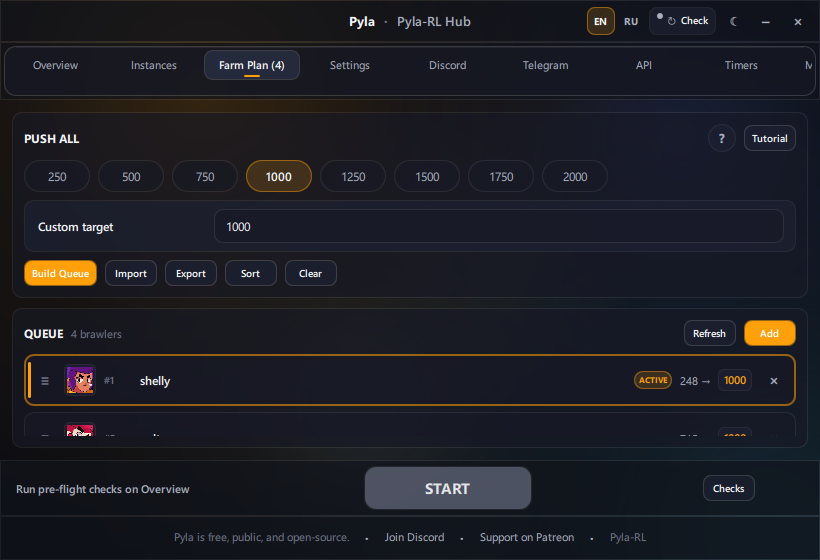
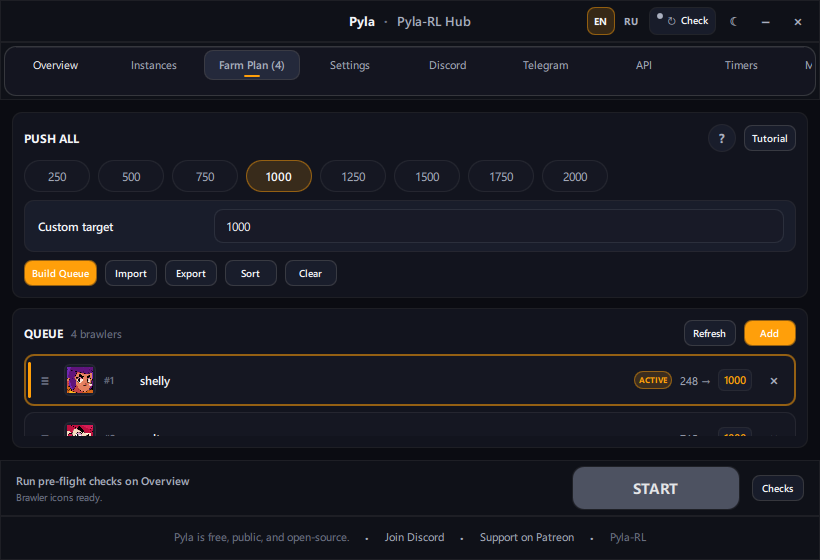
Fix empty farm-plan README screenshot with demo queue mode.
Load a committed sample queue via --demo-queue, skip Farm Plan enter animation during capture, and bust README image cache.

diff --git a/app/gui/qml/PylaHub.qml b/app/gui/qml/PylaHub.qml
@@ -620,6 +620,11 @@ ApplicationWindow {
         if (bootTab !== "") {
             activeTab = bootTab
         }
+        if (typeof hubCaptureMode !== "undefined" && hubCaptureMode) {
+            Qt.callLater(function() {
+                animationsEnabled = false
+            })
+        }
         runAction("ensure-brawler-icons")
         if (settingsOnly) {
             activeTab = "Farm Plan"
@@ -2064,9 +2069,25 @@ ApplicationWindow {
         id: farmPage
         anchors.fill: parent
 
+        function settleForCapture() {
+            farmPageBody.opacity = 1
+            farmPageShift.y = 0
+        }
+
         onVisibleChanged: {
-            if (visible) {
-                farmEnterAnim.restart()
+            if (!visible) {
+                return
+            }
+            if (typeof hubCaptureMode !== "undefined" && hubCaptureMode) {
+                settleForCapture()
+                return
+            }
+            farmEnterAnim.restart()
+        }
+
+        Component.onCompleted: {
+            if (visible && typeof hubCaptureMode !== "undefined" && hubCaptureMode) {
+                settleForCapture()
             }
         }
 

diff --git a/app/tools/capture_readme_assets.py b/app/tools/capture_readme_assets.py
@@ -4,61 +4,17 @@ from __future__ import annotations
 
 import argparse
 import ctypes
-import json
 import subprocess
 import sys
 import time
-from contextlib import contextmanager
 from pathlib import Path
 
 ROOT = Path(__file__).resolve().parent.parent
 ASSETS_DIR = ROOT / "docs" / "assets"
+DEMO_QUEUE_PATH = ASSETS_DIR / "readme-sample-queue.json"
 MAX_WIDTH = 1280
 HUB_STARTUP_SECONDS = 4.0
-FARM_PLAN_STARTUP_SECONDS = 5.5
-
-SAMPLE_README_QUEUE = [
-    {
-        "brawler": "shelly",
-        "push_until": 1000,
-        "trophies": 248,
-        "type": "trophies",
-        "wins": 0,
-        "automatically_pick": True,
-        "selection_method": "named_brawler",
-        "win_streak": 0,
-    },
-    {
-        "brawler": "colt",
-        "push_until": 1000,
-        "trophies": 715,
-        "type": "trophies",
-        "wins": 0,
-        "automatically_pick": True,
-        "selection_method": "named_brawler",
-        "win_streak": 0,
-    },
-    {
-        "brawler": "nita",
-        "push_until": 1000,
-        "trophies": 903,
-        "type": "trophies",
-        "wins": 0,
-        "automatically_pick": True,
-        "selection_method": "named_brawler",
-        "win_streak": 0,
-    },
-    {
-        "brawler": "spike",
-        "push_until": 1250,
-        "trophies": 1089,
-        "type": "trophies",
-        "wins": 0,
-        "automatically_pick": True,
-        "selection_method": "named_brawler",
-        "win_streak": 0,
-    },
-]
+FARM_PLAN_STARTUP_SECONDS = 6.0
 
 user32 = ctypes.windll.user32
 gdi32 = ctypes.windll.gdi32
@@ -117,7 +73,6 @@ def capture_hwnd(hwnd: int):
     mem_dc = gdi32.CreateCompatibleDC(hwnd_dc)
     bitmap = gdi32.CreateCompatibleBitmap(hwnd_dc, width, height)
     gdi32.SelectObject(mem_dc, bitmap)
-    # PW_RENDERFULLCONTENT helps with layered / custom chrome windows.
     if not user32.PrintWindow(hwnd, mem_dc, 2):
         user32.PrintWindow(hwnd, mem_dc, 0)
 
@@ -168,17 +123,22 @@ def capture_window_title(title_substring: str, output_name: str, wait_seconds: f
     if hwnd is None:
         raise RuntimeError(f"No visible window matching '{title_substring}' within {wait_seconds:.0f}s")
 
-    time.sleep(0.6)
+    time.sleep(0.8)
     image = capture_hwnd(hwnd)
     path = save_asset(image, output_name)
     print(f"Saved {path} ({image.width}x{image.height}) from hwnd={hwnd}")
     return path
 
 
-def launch_hub(initial_tab: str | None = None) -> subprocess.Popen:
+def launch_hub(initial_tab: str | None = None, demo_queue: Path | None = None) -> subprocess.Popen:
+    if demo_queue is not None and not demo_queue.is_file():
+        raise FileNotFoundError(f"Demo queue file not found: {demo_queue}")
+
     cmd = [sys.executable, "-m", "gui.qml_hub"]
     if initial_tab:
         cmd.extend(["--initial-tab", initial_tab])
+    if demo_queue is not None:
+        cmd.extend(["--demo-queue", str(demo_queue.resolve())])
     return subprocess.Popen(
         cmd,
         cwd=str(ROOT),
@@ -194,25 +154,6 @@ def stop_process(process: subprocess.Popen | None) -> None:
         process.wait(timeout=3)
     except subprocess.TimeoutExpired:
         process.kill()
-
-
-@contextmanager
-def seeded_readme_queue():
-    """Temporarily write a demo farm plan for README screenshots."""
-    from gui.instance_config import get_queue_path
-
-    queue_path = get_queue_path()
-    backup = queue_path.read_text(encoding="utf-8") if queue_path.exists() else None
-    queue_path.parent.mkdir(parents=True, exist_ok=True)
-    queue_path.write_text(json.dumps(SAMPLE_README_QUEUE, indent=2) + "\n", encoding="utf-8")
-    try:
-        yield queue_path
-    finally:
-        if backup is None:
-            if queue_path.exists():
-                queue_path.unlink()
-        else:
-            queue_path.write_text(backup, encoding="utf-8")
 
 
 def launch_control_window() -> subprocess.Popen:
@@ -239,13 +180,15 @@ def capture_hub_asset(
     wait_seconds: float,
     launch: bool,
     startup_seconds: float = HUB_STARTUP_SECONDS,
+    demo_queue: Path | None = None,
 ) -> Path:
     hub_process = None
     try:
         if launch:
             label = initial_tab or "Overview"
-            print(f"Launching Pyla-RL Hub ({label})...")
-            hub_process = launch_hub(initial_tab)
+            queue_note = f", demo queue" if demo_queue else ""
+            print(f"Launching Pyla-RL Hub ({label}{queue_note})...")
+            hub_process = launch_hub(initial_tab, demo_queue=demo_queue)
             time.sleep(startup_seconds)
         return capture_window_title("Pyla-RL Hub", output_name, wait_seconds=wait_seconds)
     finally:
@@ -298,16 +241,16 @@ def main() -> None:
             if target == "hub-overview":
                 saved.append(capture_hub_asset("hub-overview.png", None, args.wait, launch))
             elif target == "hub-farm-plan":
-                with seeded_readme_queue():
-                    saved.append(
-                        capture_hub_asset(
-                            "hub-farm-plan.png",
-                            "Farm Plan",
-                            args.wait,
-                            launch,
-                            startup_seconds=FARM_PLAN_STARTUP_SECONDS,
-                        )
+                saved.append(
+                    capture_hub_asset(
+                        "hub-farm-plan.png",
+                        "Farm Plan",
+                        args.wait,
+                        launch,
+                        startup_seconds=FARM_PLAN_STARTUP_SECONDS,
+                        demo_queue=DEMO_QUEUE_PATH,
                     )
+                )
             elif target == "control-window":
                 saved.append(capture_control_asset(args.wait, launch))
     except Exception as exc:

diff --git a/app/gui/qml_hub.py b/app/gui/qml_hub.py
@@ -76,6 +76,7 @@ class QmlHub:
             on_close_callback=None,
             settings_only=False,
             initial_tab="",
+            demo_queue_path="",
     ):
         os.environ.setdefault("QT_LOGGING_RULES", "qt.qpa.window=false")
         ensure_pyside6_available()
@@ -1173,6 +1174,7 @@ class QmlHub:
         self.on_close_callback = on_close_callback
         self.settings_only = settings_only
         self.initial_tab = str(initial_tab or "").strip()
+        self.demo_queue_path = str(demo_queue_path or "").strip()
         self.started = False
 
         app = QGuiApplication.instance()
@@ -1187,7 +1189,9 @@ class QmlHub:
 
         from gui import brand
 
-        self._store = HubStateStore()
+        self._store = HubStateStore(
+            queue_path_override=self.demo_queue_path or None,
+        )
         self._multi_instance_service = None
 
         def _start_multi_instance_service():
@@ -1239,6 +1243,7 @@ class QmlHub:
         context.setContextProperty("latestVersion", self.latest_version_str or "")
         context.setContextProperty("correctZoom", self.correct_zoom)
         context.setContextProperty("initialTab", self.initial_tab)
+        context.setContextProperty("hubCaptureMode", bool(self.demo_queue_path))
         context.setContextProperty("hubBrand", {
             "productName": brand.PRODUCT_NAME,
             "freeNotice": brand.FREE_NOTICE,
@@ -1297,9 +1302,20 @@ def main():
         default="",
         help="Open directly on a Hub tab (e.g. 'Farm Plan'). Used by screenshot capture.",
     )
+    parser.add_argument(
+        "--demo-queue",
+        default="",
+        help="Load farm plan queue from a fixed JSON file (screenshot capture).",
+    )
     args = parser.parse_args()
     version = str(load_toml_as_dict("cfg/general_config.toml").get("pyla_version", "0.8.1"))
-    QmlHub(version, version, settings_only=args.settings_only, initial_tab=args.initial_tab)
+    QmlHub(
+        version,
+        version,
+        settings_only=args.settings_only,
+        initial_tab=args.initial_tab,
+        demo_queue_path=args.demo_queue,
+    )
 
 
 if __name__ == "__main__":

diff --git a/app/gui/hub_state.py b/app/gui/hub_state.py
@@ -181,6 +181,7 @@ class HubStateStore:
             telegram_config_path="cfg/telegram_config.local.toml",
             brawl_stars_api_base_config_path="cfg/brawl_stars_api.toml",
             brawl_stars_api_config_path="cfg/brawl_stars_api.local.toml",
+            queue_path_override=None,
     ):
         self.bot_config_path = bot_config_path
         self.general_config_path = general_config_path
@@ -191,6 +192,11 @@ class HubStateStore:
         self.telegram_config_path = telegram_config_path
         self.brawl_stars_api_base_config_path = brawl_stars_api_base_config_path
         self.brawl_stars_api_config_path = brawl_stars_api_config_path
+        self._queue_path_override = (
+            Path(queue_path_override).resolve()
+            if queue_path_override
+            else None
+        )
         self.editing_instance_id = ""
         self.bot_config = load_toml_as_dict(bot_config_path)
         self.general_config = load_toml_as_dict(general_config_path)
@@ -561,6 +567,9 @@ class HubStateStore:
         return self.ui_state()
 
     def _active_queue_path(self):
+        if self._queue_path_override is not None:
+            return self._queue_path_override
+
         from gui.instance_config import get_default_instance_id, get_queue_path, is_multi_instance_enabled
 
         if is_multi_instance_enabled():

diff --git a/app/docs/assets/README.md b/app/docs/assets/README.md
@@ -6,6 +6,7 @@ Images used on the main [README](../../README.md) gallery.
 |------|--------|-----------------|
 | `hub-overview.png` | Hub **Overview** tab — pre-flight checks, header **update pill**, performance profile | Hub layout, Overview tab, or header chrome changes |
 | `hub-farm-plan.png` | Hub **Farm Plan** tab — queue builder and presets | Farm Plan UI changes |
+| `readme-sample-queue.json` | Demo farm plan used when capturing `hub-farm-plan.png` | Queue row layout changes |
 | `control-window.png` | **Pyla-RL Control** — status pill, pause/resume, IPS graph, session strip | Control window layout, chrome, or metrics strip changes |
 
 ## Capture
@@ -22,6 +23,6 @@ Options:
 - `--no-launch` — capture from already-open windows
 - `--wait 25` — seconds to wait for each window
 
-Farm Plan uses `gui.qml_hub --initial-tab "Farm Plan"` and temporarily seeds `data/latest_brawler_data.json` with demo brawlers for the screenshot.
+Farm Plan uses `gui.qml_hub --initial-tab "Farm Plan" --demo-queue docs/assets/readme-sample-queue.json`.
 
 Prerequisites for clean Hub shots: `license_accepted = "yes"` and `first_run_wizard = "no"` in local `cfg/general_config.toml` (do not commit local config).

diff --git a/README.md b/README.md
@@ -24,7 +24,7 @@ Pyla-RL is **free and open source**. Do not pay for copies, repacks, or "premium
 
 | Hub — Overview | Hub — Farm Plan | Pyla-RL Control |
 |:---:|:---:|:---:|
-| ![Hub Overview](app/docs/assets/hub-overview.png) | ![Farm Plan](app/docs/assets/hub-farm-plan.png) | ![Control window](app/docs/assets/control-window.png) |
+| ![Hub Overview](app/docs/assets/hub-overview.png) | ![Farm Plan](app/docs/assets/hub-farm-plan.png?v=20260613) | ![Control window](app/docs/assets/control-window.png) |
 | Pre-flight checks, **update pill**, performance profiles | Queue builder, Push All presets, import/export | Polished pause window — status pill, IPS graph, session strip |
 
 Enable **Debug Screen** in Hub settings for a live vision overlay (player, walls, fog, ranges) while the bot runs.
